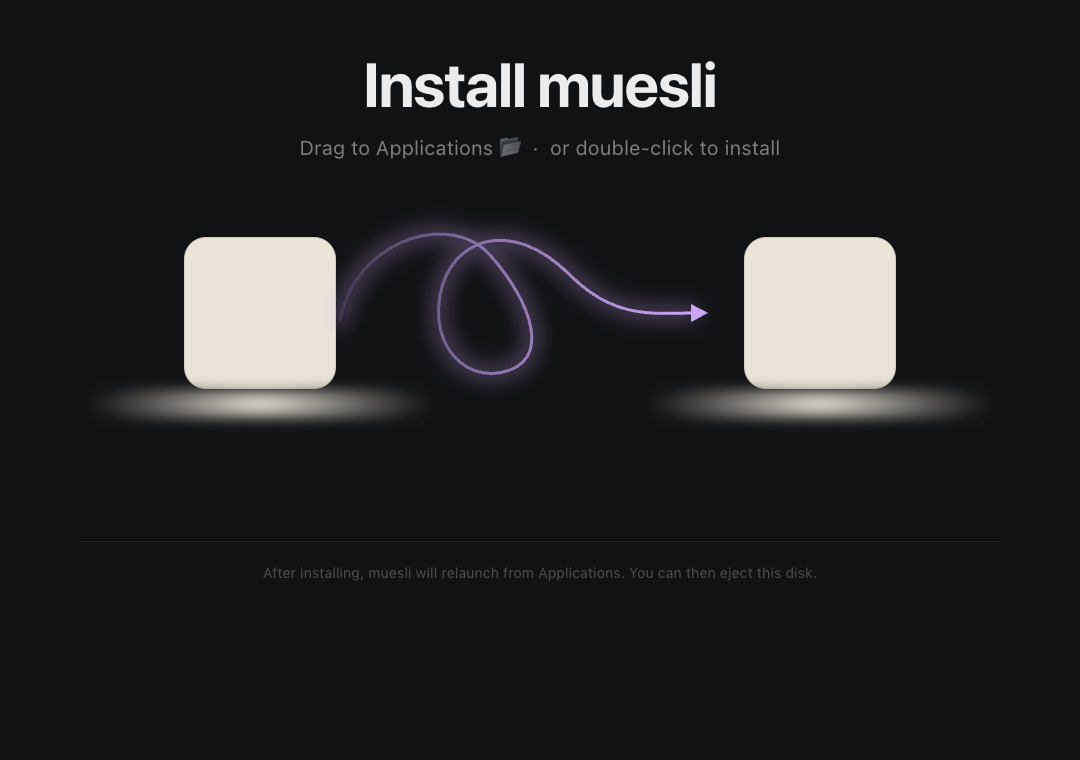
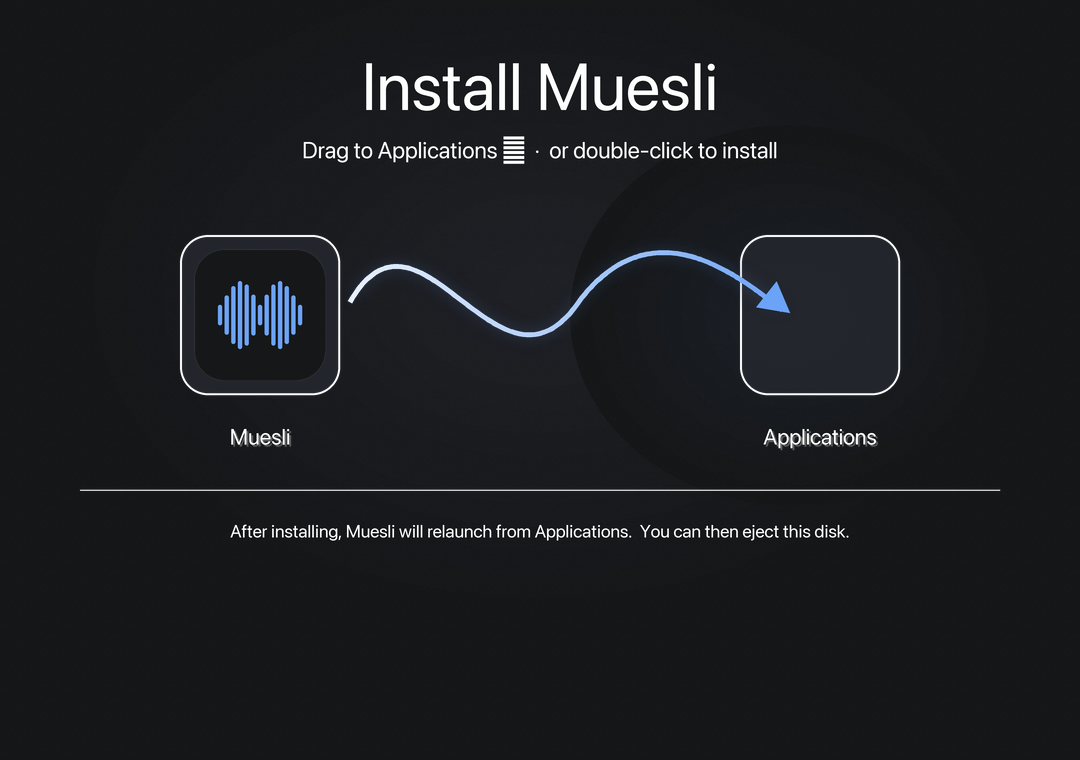
Polish DMG install flow

diff --git a/native/MuesliNative/Sources/MuesliNativeApp/PostInstallChecker.swift b/native/MuesliNative/Sources/MuesliNativeApp/PostInstallChecker.swift
@@ -12,6 +12,10 @@ enum PostInstallChecker {
         hasPresented = true
 
         let bundlePath = Bundle.main.bundlePath
+        let bundleName = URL(fileURLWithPath: bundlePath).lastPathComponent
+        let appName = Bundle.main.object(forInfoDictionaryKey: "CFBundleDisplayName") as? String
+            ?? Bundle.main.object(forInfoDictionaryKey: "CFBundleName") as? String
+            ?? URL(fileURLWithPath: bundlePath).deletingPathExtension().lastPathComponent
 
         if bundlePath.hasPrefix("/Volumes/") {
             // Confirm it's a read-only DMG mount, not an external SSD or network share.
@@ -20,37 +24,41 @@ enum PostInstallChecker {
             guard values?.volumeIsReadOnly == true else { return }
 
             // Case 1: running directly from DMG — offer to install
-            offerInstall(from: bundlePath)
+            offerInstall(from: bundlePath, bundleName: bundleName, appName: appName)
         } else {
             // Case 2: running from /Applications — check if DMG is still mounted
-            mountedDMGCheckTask = Task { await checkForMountedDMG() }
+            mountedDMGCheckTask = Task { await checkForMountedDMG(appName: appName) }
         }
     }
 
     // MARK: - Case 1: Install from DMG
 
-    private static func offerInstall(from bundlePath: String) {
+    private static func offerInstall(from bundlePath: String, bundleName: String, appName: String) {
         guard runAlert(
-            message: NSLocalizedString("Install Muesli to Applications?",
+            message: String(format: NSLocalizedString("Install %@ to Applications?",
                 comment: "Alert title: user launched app directly from DMG"),
-            info: NSLocalizedString("Muesli will copy itself to your Applications folder and relaunch automatically.",
+                appName),
+            info: String(format: NSLocalizedString("%@ will copy itself to your Applications folder and relaunch automatically.",
                 comment: "Alert body: explains what the install action does"),
+                appName),
             buttons: [
                 NSLocalizedString("Install", comment: "Confirm install button"),
                 NSLocalizedString("Cancel", comment: "Cancel install button"),
             ]
         ) == .alertFirstButtonReturn else { return }
 
-        let destinationURL = URL(fileURLWithPath: "/Applications/Muesli.app")
+        let destinationURL = URL(fileURLWithPath: "/Applications").appendingPathComponent(bundleName)
 
         // P2: use isDirectory to confirm it's a bundle, not a stray file at that path.
         var isDir: ObjCBool = false
         if FileManager.default.fileExists(atPath: destinationURL.path, isDirectory: &isDir), isDir.boolValue {
             guard runAlert(
-                message: NSLocalizedString("Replace existing Muesli?",
+                message: String(format: NSLocalizedString("Replace existing %@?",
                     comment: "Alert title: an older Muesli.app is already in Applications"),
-                info: NSLocalizedString("An older version of Muesli is already in Applications. Replace it?",
+                    appName),
+                info: String(format: NSLocalizedString("An older version of %@ is already in Applications. Replace it?",
                     comment: "Alert body: confirms replacing existing install"),
+                    appName),
                 buttons: [
                     NSLocalizedString("Replace", comment: "Confirm replace button"),
                     NSLocalizedString("Cancel", comment: "Cancel replace button"),
@@ -126,10 +134,10 @@ enum PostInstallChecker {
 
     // MARK: - Case 2: Eject mounted DMG
 
-    private static func checkForMountedDMG() async {
-        guard let volumeURL = findMuesliVolume() else { return }
+    private static func checkForMountedDMG(appName: String) async {
+        guard let volumeURL = findMountedInstallerVolume(appName: appName) else { return }
         let volumePath = volumeURL.path
-        let sourceDMGPath = await findSourceDMGPath(for: volumePath)
+        guard let sourceDMGPath = await findSourceDMGPath(for: volumePath) else { return }
 
         // App is installed and running — force-detach via hdiutil (handles busy Finder windows),
         // then trash the source .dmg file. Finder's window closes as a side-effect of unmount.
@@ -137,12 +145,12 @@ enum PostInstallChecker {
         if !detached {
             fputs("[PostInstallChecker] failed to eject volume at \(volumePath)\n", stderr)
         }
-        if detached, let dmgPath = sourceDMGPath {
+        if detached {
             await MainActor.run {
                 do {
                     try FileManager.default.trashItem(
-                        at: URL(fileURLWithPath: dmgPath), resultingItemURL: nil)
-                    fputs("[PostInstallChecker] trashed DMG: \(dmgPath)\n", stderr)
+                        at: URL(fileURLWithPath: sourceDMGPath), resultingItemURL: nil)
+                    fputs("[PostInstallChecker] trashed DMG: \(sourceDMGPath)\n", stderr)
                 } catch {
                     fputs("[PostInstallChecker] trash failed: \(error.localizedDescription)\n", stderr)
                 }
@@ -167,14 +175,14 @@ enum PostInstallChecker {
 
     // P2: use mountedVolumeURLs instead of contentsOfDirectory("/Volumes") — avoids
     // stale symlinks, firmlinks, and hidden entries that can appear under /Volumes.
-    private static func findMuesliVolume() -> URL? {
+    private static func findMountedInstallerVolume(appName: String) -> URL? {
         guard let volumes = FileManager.default.mountedVolumeURLs(
             includingResourceValuesForKeys: [.volumeNameKey],
             options: [.skipHiddenVolumes]
         ) else { return nil }
         return volumes.first { url in
             let name = (try? url.resourceValues(forKeys: [.volumeNameKey]).volumeName) ?? ""
-            return name.hasPrefix("Muesli")
+            return name == appName
         }
     }
 

diff --git a/scripts/generate_dmg_background.py b/scripts/generate_dmg_background.py
@@ -2,8 +2,8 @@
 """
 Generate DMG background images for Muesli installer.
 Produces:
-  scripts/assets/dmg-background@2x.png  — 1080x760px (Retina master)
-  scripts/assets/dmg-background.png     — 540x380px  (1x downscale)
+  scripts/assets/dmg-background.png     — 1080x760px  (1x)
+  scripts/assets/dmg-background@2x.png  — 2160x1520px (Retina)
 
 Rendering at RENDER_SCALE× then LANCZOS downsample for SSAA.
 """
@@ -16,9 +16,21 @@ from PIL import Image, ImageDraw, ImageFont, ImageFilter
 # ---------------------------------------------------------------------------
 # Fonts (SF Pro — /Library/Fonts/ on macOS)
 # ---------------------------------------------------------------------------
-F_DISPLAY_BOLD  = "/Library/Fonts/SF-Pro-Display-Bold.otf"
-F_TEXT_REGULAR  = "/Library/Fonts/SF-Pro-Text-Regular.otf"
-F_TEXT_SEMIBOLD = "/Library/Fonts/SF-Pro-Text-Semibold.otf"
+F_DISPLAY_BOLD = [
+    "/Library/Fonts/SF-Pro-Display-Bold.otf",
+    "/System/Library/Fonts/SFNS.ttf",
+    "/System/Library/Fonts/HelveticaNeue.ttc",
+]
+F_TEXT_REGULAR = [
+    "/Library/Fonts/SF-Pro-Text-Regular.otf",
+    "/System/Library/Fonts/SFNS.ttf",
+    "/System/Library/Fonts/HelveticaNeue.ttc",
+]
+F_TEXT_SEMIBOLD = [
+    "/Library/Fonts/SF-Pro-Text-Semibold.otf",
+    "/System/Library/Fonts/SFNS.ttf",
+    "/System/Library/Fonts/HelveticaNeue.ttc",
+]
 
 # ---------------------------------------------------------------------------
 # Colour palette (Muesli Design System)
@@ -28,7 +40,7 @@ C_SURFACE = (0x26, 0x28, 0x30, 255)   # --surface-primary
 C_BORDER  = (255, 255, 255, 18)        # rgba(255,255,255,0.07)
 C_ACCENT  = (0x6b, 0xa3, 0xf7, 255)   # --accent blue
 C_TEXT    = (255, 255, 255, 235)       # rgba(255,255,255,0.92)
-C_SUBTEXT = (255, 255, 255, 158)       # rgba(255,255,255,0.62)
+C_SUBTEXT = (255, 255, 255, 205)       # rgba(255,255,255,0.80)
 C_OVERLAY = (255, 255, 255, 61)        # rgba(255,255,255,0.24) — divider
 
 RENDER_SCALE = 4
@@ -36,6 +48,16 @@ RENDER_SCALE = 4
 
 def rgba(c, a: int):
     return (c[0], c[1], c[2], a)
+
+
+def load_font(candidates, size: int):
+    for path in candidates:
+        if os.path.exists(path):
+            try:
+                return ImageFont.truetype(path, size=size)
+            except OSError:
+                continue
+    return ImageFont.load_default(size=size)
 
 
 # ---------------------------------------------------------------------------
@@ -110,15 +132,13 @@ def _cubic_bezier(x0, y0, cx1, cy1, cx2, cy2, x1, y1, steps=80):
 
 def draw_arrow(canvas: Image.Image, S: int):
     """
-    Corkscrew cubic Bézier arrow from Muesli box to Applications box.
-    Four chained segments for the loose spring shape.
+    Directional cubic Bézier arrow from Muesli box to Applications box.
+    Keep it simple so the installer reads as a clear drag gesture.
     Coordinates in 1x (1080×760) space; scaled by S.
     """
     segments_1x = [
-        ((348, 313), (366, 222), (418, 198), (458, 268)),
-        ((458, 268), (498, 338), (502, 386), (554, 356)),
-        ((554, 356), (606, 326), (614, 242), (664, 268)),
-        ((664, 268), (693, 284), (706, 305), (720, 298)),
+        ((350, 302), (420, 180), (500, 420), (580, 300)),
+        ((580, 300), (650, 210), (730, 268), (782, 310)),
     ]
     segments = [
         tuple((int(p[0]*S), int(p[1]*S)) for p in seg)
@@ -141,8 +161,8 @@ def draw_arrow(canvas: Image.Image, S: int):
     glow = Image.new("RGBA", canvas.size, (0, 0, 0, 0))
     gd = ImageDraw.Draw(glow)
     for i in range(n - 1):
-        gd.line([all_pts[i], all_pts[i + 1]], fill=C_ACCENT, width=18 * S)
-    glow = glow.filter(ImageFilter.GaussianBlur(radius=12 * S))
+        gd.line([all_pts[i], all_pts[i + 1]], fill=C_ACCENT, width=14 * S)
+    glow = glow.filter(ImageFilter.GaussianBlur(radius=10 * S))
     gr, gg, gb, ga = glow.split()
     ga = ga.point(lambda v: int(v * 0.35))
     canvas.alpha_composite(Image.merge("RGBA", (gr, gg, gb, ga)))
@@ -152,10 +172,10 @@ def draw_arrow(canvas: Image.Image, S: int):
     for i in range(n - 1):
         t = i / (n - 1)
         alpha = int(40 + t * 215)
-        draw.line([all_pts[i], all_pts[i + 1]], fill=rgba(C_ACCENT, alpha), width=6 * S)
+        draw.line([all_pts[i], all_pts[i + 1]], fill=rgba(C_ACCENT, alpha), width=5 * S)
 
     # 3. Arrowhead oriented along final tangent
-    tip = (int(732*S), int(313*S))
+    tip = (int(790*S), int(313*S))
     dx = all_pts[-1][0] - all_pts[-8][0]
     dy = all_pts[-1][1] - all_pts[-8][1]
     length = math.hypot(dx, dy)
@@ -207,10 +227,19 @@ def draw_icon_column(canvas: Image.Image, cx, cy, label: str, font, S: int,
     draw.rounded_rectangle([lx, ty, rx, by], radius=radius,
                             fill=None, outline=C_BORDER, width=2 * S)
 
-    # Label below box
-    label_y = by + 16 * S
+    # Render the visible label in the artwork. Finder's own filename label is
+    # shifted to the side by create_dmg.sh because Finder does not expose a
+    # reliable icon-label colour setting.
+    label_y = by + 28 * S
     bbox = draw.textbbox((0, 0), label, font=font)
     tw = bbox[2] - bbox[0]
+    shadow_offset = 2 * S
+    draw.text(
+        (cx - tw // 2 + shadow_offset, label_y + shadow_offset),
+        label,
+        font=font,
+        fill=(0, 0, 0, 170),
+    )
     draw.text((cx - tw // 2, label_y), label, font=font, fill=C_TEXT)
 
 
@@ -234,10 +263,10 @@ def generate():
     S = RENDER_SCALE
     RW, RH = W * S, H * S
 
-    font_title    = ImageFont.truetype(F_DISPLAY_BOLD,  size=62 * S)
-    font_subtitle = ImageFont.truetype(F_TEXT_REGULAR,  size=20 * S)
-    font_label    = ImageFont.truetype(F_TEXT_SEMIBOLD, size=22 * S)
-    font_footer   = ImageFont.truetype(F_TEXT_REGULAR,  size=18 * S)
+    font_title    = load_font(F_DISPLAY_BOLD,  size=66 * S)
+    font_subtitle = load_font(F_TEXT_SEMIBOLD, size=23 * S)
+    font_label    = load_font(F_TEXT_SEMIBOLD, size=22 * S)
+    font_footer   = load_font(F_TEXT_SEMIBOLD, size=18 * S)
 
     # 1. Base canvas
     img = Image.new("RGBA", (RW, RH), C_BASE)
@@ -251,9 +280,9 @@ def generate():
     # 4. Header text
     draw = ImageDraw.Draw(img)
     draw_centred(draw, "Install Muesli", font_title,
-                 52 * S, C_TEXT, RW)
+                 46 * S, C_TEXT, RW)
     draw_centred(draw, "Drag to Applications \U0001f4c2  \u00b7  or double-click to install",
-                 font_subtitle, 134 * S, C_SUBTEXT, RW)
+                 font_subtitle, 136 * S, C_SUBTEXT, RW)
 
     # 5. Icon columns
     script_dir = os.path.dirname(os.path.abspath(__file__))
@@ -278,17 +307,19 @@ def generate():
               "  You can then eject this disk.")
     draw_centred(draw, footer, font_footer, 520 * S, C_SUBTEXT, RW)
 
-    # 9. Downsample with LANCZOS and save
+    # 9. Downsample with LANCZOS and save. Keep the background referenced by
+    # Finder at full point resolution, and include a Retina sibling for systems
+    # that resolve @2x artwork.
     out_dir = os.path.join(os.path.dirname(__file__), "assets")
     os.makedirs(out_dir, exist_ok=True)
 
-    img.resize((W, H), Image.LANCZOS).save(
+    img.resize((W * 2, H * 2), Image.LANCZOS).save(
         os.path.join(out_dir, "dmg-background@2x.png"), "PNG")
-    img.resize((W // 2, H // 2), Image.LANCZOS).save(
+    img.resize((W, H), Image.LANCZOS).save(
         os.path.join(out_dir, "dmg-background.png"), "PNG")
 
-    print("Generated: scripts/assets/dmg-background.png (540x380) "
-          "and dmg-background@2x.png (1080x760)")
+    print("Generated: scripts/assets/dmg-background.png (1080x760) "
+          "and dmg-background@2x.png (2160x1520)")
 
 
 if __name__ == "__main__":
